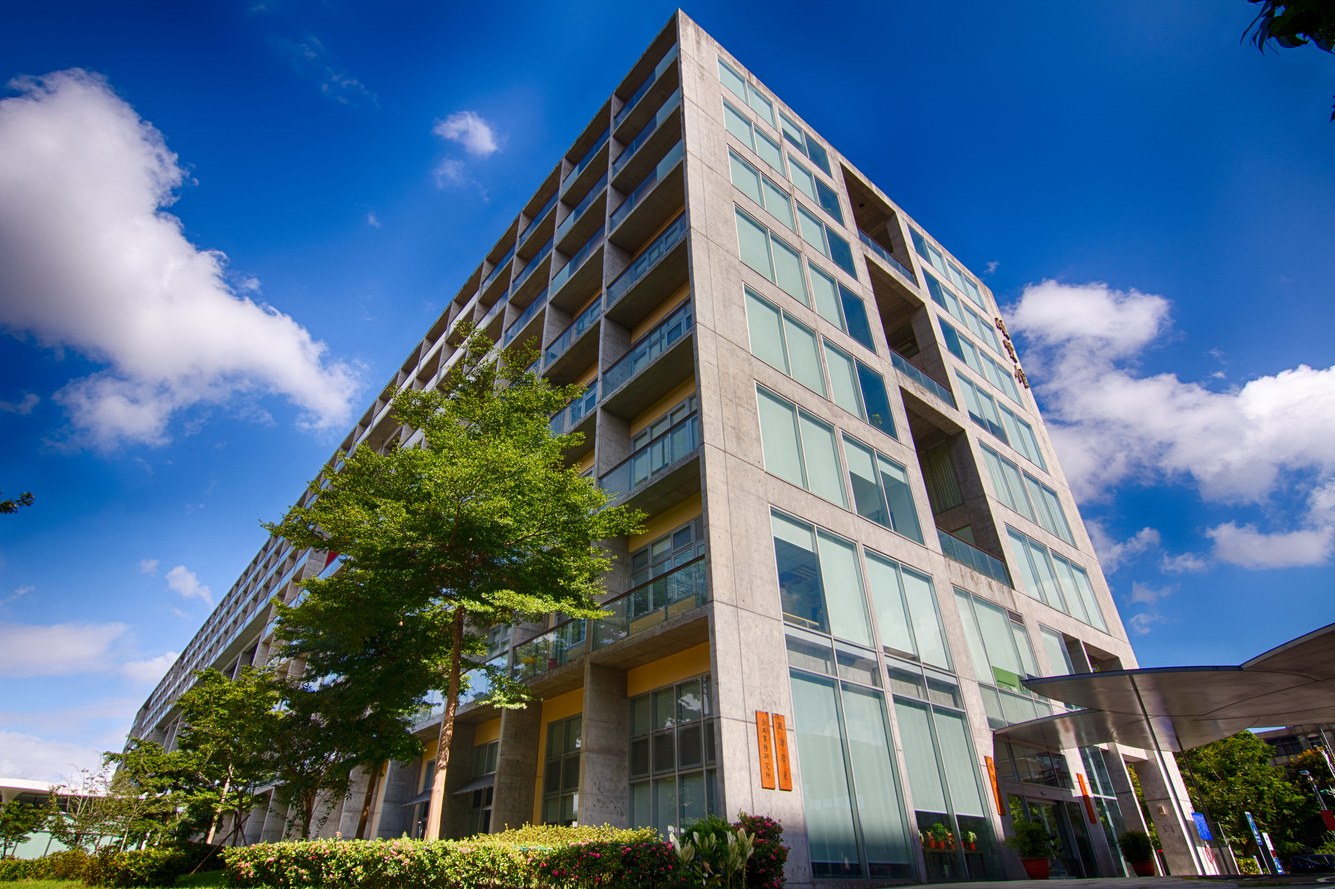
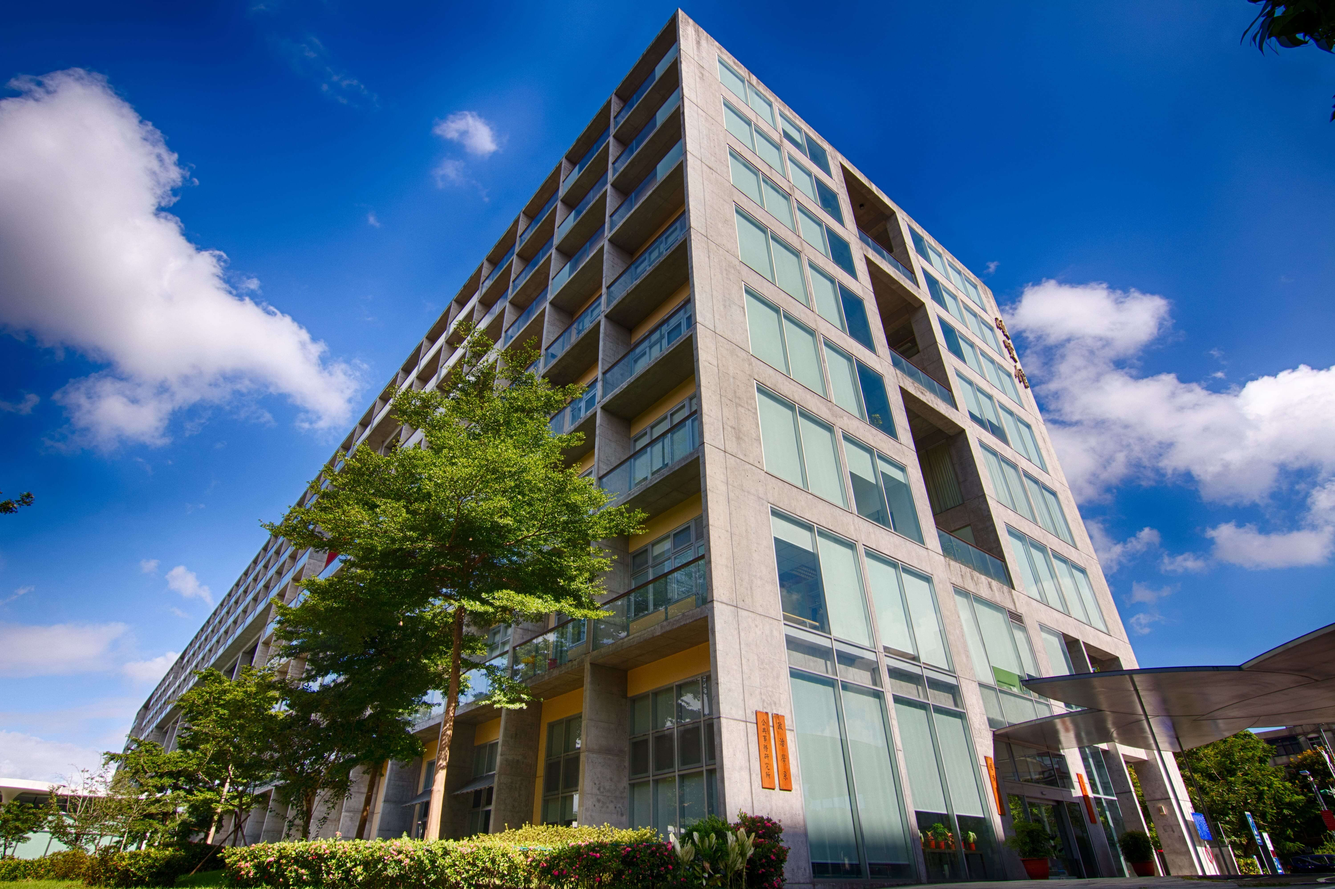
introduction adjusted, html composing adjusted, images compressed, search-text shortened

diff --git a/templates/course/course.html b/templates/course/course.html
@@ -1,43 +1,97 @@
 {% extends "course/base.html" %} 
-{% block course %}
-{% if course_list %} 以下是跟關鍵字有關的課程!{% endif %}
-{% if not course_list %}抱歉 沒有找到對應的課程，試試其他關鍵字吧！{% endif %}
-{% endblock %}
+
 {% block search %}
 <div class="search">
     <div class="search-container">
         <form class="search-box" method="GET">
-            <input type="text" class="search-text" name="keyword" placeholder="請輸入想找的課程關鍵字" button="">
+            <input type="text" class="search-text" name="keyword" placeholder="要好好選課！" button="">
             <input type="submit" class="search-button" href="#" value="GO">
         </form>
     </div>
+</div>    
 {% endblock %}
-{% block course-table %}
-{% if course_list %}    
-{% for course in course_list %}
+
+{% block message %}
 <style>
-td {
-    border-bottom: solid 1pxrgba(255,255,255,0.1);
-    padding: 15px;
-    color: #33cccc;
-    font-size: 25px;
-    font-weight: 300;
-    text-align: center;
-    text-shadow: WHITE 0.1em 0.1em 0.2em;
-    vertical-align: middle;
-}	
+    h1 {
+        text-align: center;
+        color: #33cccc;
+        font-size: 20px;
+    }   
+    h2 {
+        text-align: center;
+        color: #33cccc;
+        font-size: 18px;
+    }
 </style>
-<tr>
-    <td><a style="color:#33cccc;" href="{{course.id}}/?keyword={{keyword}}">{{ course.class_name }}</a></td>
-    <td>{{ course.credit }}</td>
-    <td>{{ course.teacher }}</td>
-    <td>{{ course.class_time }}</td>
-    <td><a style="color:#33cccc;" href="https://www.ptt.cc/bbs/NTUcourse/search?q={{course.teacher}}+{{course.class_name}}">點我看評價</a></td>
-	<td><a style="color:#33cccc;" href="add/{{course.id}}/?keyword={{keyword}}">匯入</a></td>
-</tr>
-{% endfor %}
-{% endif %}
-{% if not course_list %}
-{% endif %}
+    {% if keyword == "" %} 
+        <h1>請輸入你有興趣的課程關鍵字！</h1>
+        <h2>只要是跟關鍵字有關的課程，不只是課程的基本資訊（課程名稱、授課教師等等），</h2>
+        <h2>課程大綱內容（課程概述、課程目標、單元主題）裡面有包含關鍵字的，都能一次找齊！</h2>
+        <h2>哪一堂『大一國文』會講『紅樓夢』？誰的『經濟學』只要交『期末報告』就好？</h2>
+        <h2>哪些程式課會用到『C++』？誰的『必修』一定要『出席』？</h2>
+        <h2>想打造自己的貼身課表，重拾選課的自主權嗎？</h2>
+        <h2>就從輸入關鍵字開始吧!</h2>
+    {% elif not course_list %}
+        <h1>抱歉，沒有對應的課程。試試其他關鍵字吧！</h1>
+    {% else %}
+        <h1>以下是跟關鍵字「{{ keyword }}」有關的課程，共有 {{ course_list.count() }} 筆資料</h1>
+    {% endif %}
+{% endblock %}
+
+{% block course-table-th %}
+    {% if course_list %}
+    <style>
+        td {
+            border-bottom: solid 1pxrgba(255,255,255,0.1);
+            padding: 15px;
+            color: #33cccc;
+            font-size: 25px;
+            font-weight: 300;
+            text-align: center;
+            text-shadow: WHITE 0.1em 0.1em 0.2em;
+            vertical-align: middle;
+        }   
+    </style>
+    <div class="table-container">
+    <div class="tbl-header">
+    <table cellpadding="0" cellspacing="0" border="0">
+        <thead>
+            <tr>
+                <th><strong>課程名稱</strong></th>
+                <th><strong>學分</strong></th>
+                <th><strong>授課教師</strong></th>
+                <th><strong>上課時間</strong></th>
+                <th><strong>上課評價</strong></th>
+                <th><strong>匯入課程</strong></th>
+            </tr>
+        </thead>
+    </table>
+</div>
+</div>
+    {% else %}
+    {% endif %}
+{% endblock %}
+
+{% block course-table-tb %}
+    {% for course in course_list %}
+        {% if course_list %}   
+            <div class="tbl-content">
+                <table cellpadding="0" cellspacing="0" border="0">
+                    <tbody>
+                        <tr>
+                            <td><a style="color:#33cccc;" href="{{course.id}}/?keyword={{keyword}}">{{ course.class_name }}</a></td>
+                            <td>{{ course.credit }}</td>
+                            <td>{{ course.teacher }}</td>
+                            <td>{{ course.class_time }}</td>
+                            <td><a style="color:#33cccc;" href="https://www.ptt.cc/bbs/NTUcourse/search?q={{course.teacher}}+{{course.class_name}}">點我看評價</a></td>
+                            <td><a style="color:#33cccc;" href="add/{{course.id}}/?keyword={{keyword}}"　target="_blank">匯入</a></td>
+                        </tr>
+                    </tbody>
+                </table>
+            </div>
+        {% else %}
+        {% endif %}
+    {% endfor %}
 {% endblock %}
 

diff --git a/templates/course/base.html b/templates/course/base.html
@@ -13,45 +13,27 @@
   <div class="background">
     <span class="title">Dream of the Red Chamber</span>
   </div>
-    {% block search %}
+
+  {% block search %}
+  {% endblock %}
+
+  <div class="detail">
+    {% block message %}
     {% endblock %}
-    <h1 class="detail">
-    {% block course_homepage %}
+    {% block detail %}
     {% endblock %}
-    {% block course %}
-    {% endblock %}
-    {%  block detail %}
-    {% endblock %}
-    </h1>
   </div>
-  <div class="table-container">
-    <div class="tbl-header">
-      <table cellpadding="0" cellspacing="0" border="0">
-        <thead>
-          <tr>
-            <th><strong>課程名稱</strong></th>
-            <th><strong>學分</strong></th>
-            <th><strong>授課教師</strong></th>
-            <th><strong>上課時間</strong></th>
-            <th><strong>上課評價</strong></th>
-			<th><strong>匯入課程</strong></th>
-          </tr>
-        </thead>
-      </table>
-    </div>
-    <div class="tbl-content">
-      <table cellpadding="0" cellspacing="0" border="0">
-          <tbody>
-          {% block course-table %}
-          {% endblock %}
-          {% block coursedetail-table %}
-          {% endblock %}
-          </tbody>
-      </table>
-    </div>
+  
+  {% block course-table-th %}
+  {% endblock %}
+  {% block course-table-tb %}
+  {% endblock %}
+  {% block coursedetail-table %}
+  {% endblock %}
+
   <div class="weblinks">
-    <a class="website" href="https://nol.ntu.edu.tw/nol/guest/index.php">台大課程網</a>
-    <a class="ptt" href="https://www.ptt.cc/bbs/NTUcourse/index.html">PTT NTUcourse 版</a>
+    <a class="website" href="https://nol.ntu.edu.tw/nol/guest/index.php" target="_blank">台大課程網</a>
+    <a class="ptt" href="https://www.ptt.cc/bbs/NTUcourse/index.html" target="_blank">PTT NTUcourse 版</a>
   </div>
 </body>
 </html>

diff --git a/templates/course/course_detail.html b/templates/course/course_detail.html
@@ -1,7 +1,28 @@
 {% extends "course/base.html" %} 
+
 {% block detail %}
 以下是該課程的詳細資訊！
 {% endblock %}
+
+{% course-table-th %}
+<div class="table-container">
+    <div class="tbl-header">
+      <table cellpadding="0" cellspacing="0" border="0">
+        <thead>
+          <tr>
+            <th><strong>課程名稱</strong></th>
+            <th><strong>學分</strong></th>
+            <th><strong>授課教師</strong></th>
+            <th><strong>上課時間</strong></th>
+            <th><strong>上課評價</strong></th>
+			<th><strong>匯入課程</strong></th>
+          </tr>
+        </thead>
+      </table>
+    </div>
+    </div>
+{% endblock %}
+
 {% block coursedetail-table %}
 <style>
 td {
@@ -15,15 +36,17 @@ td {
   vertical-align: middle;
 }	
 </style>	
-<table cellpadding="0" cellspacing="0" border="0">
-	<tbody>
-		<tr>
-			<td>{{ course.class_name }}</td>
-			<td>{{ course.credit }}</td>
-			<td>{{ course.teacher }}</td>
-			<td>{{ course.time }}</td>			
-			<td>上課評價</td>
-		</tr>                              
-	</tbody>
-</table>
+{% for course in course_list %}
+{% if course_list %}    
+<tr>
+    <td><a style="color:#33cccc;" href="{{course.id}}/?keyword={{keyword}}">{{ course.class_name }}</a></td>
+    <td>{{ course.credit }}</td>
+    <td>{{ course.teacher }}</td>
+    <td>{{ course.class_time }}</td>
+    <td><a style="color:#33cccc;" href="https://www.ptt.cc/bbs/NTUcourse/search?q={{course.teacher}}+{{course.class_name}}">點我看評價</a></td>
+	<td><a style="color:#33cccc;" href="add/{{course.id}}/?keyword={{keyword}}">匯入</a></td>
+</tr>
+{% else %}
+{% endif %}
+{% endfor %}
 {% endblock %}

diff --git a/static/css/base.css b/static/css/base.css
@@ -27,7 +27,7 @@
     background-image: url("../image/04.jpg"), url("../image/05.jpg");
   }
   100% {
-    background-image: url("../image/05.jpg");
+    background-image: url("../image/05.jpg"), url("../image/01.jpg");
   }
 }
 
